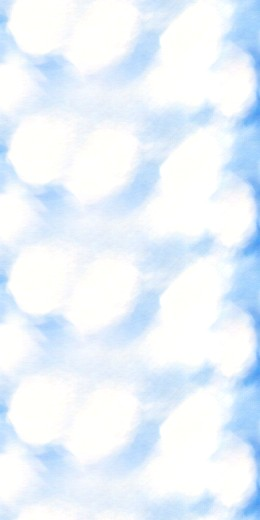
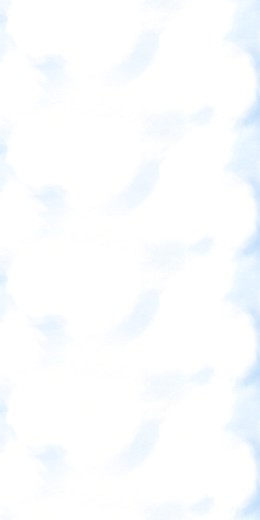
mole v835: 얼굴합성 촬영 시 다음 단계 안 넘어가던 문제(인식 요청 직렬화 + 촬영본 인식 실패 시 직전 확인 얼굴로 진행), 리듬팡 부메랑 잔상 제거·바람줄 희미하게, 눈덩이 전체 흰색
Claude-Session: https://claude.ai/code/session_01J1KxSabD5npHbmYBZZgZCb

diff --git a/mole/js/face-studio.js b/mole/js/face-studio.js
@@ -222,6 +222,12 @@
       if (tilt > 0.3) return 'tilt';
       return 'ok';
     }
+    function scaleDet(d, k) {
+      function sp(p) { return p ? { x: p.x * k, y: p.y * k } : p; }
+      var o = { ok: true, count: d.count, oval: d.oval.map(sp), box: d.box && { x: d.box.x * k, y: d.box.y * k, w: d.box.w * k, h: d.box.h * k } };
+      ['eyeL', 'eyeR', 'cheekL', 'cheekR', 'chin', 'nose', 'skinL', 'skinR'].forEach(function (n) { o[n] = sp(d[n]); });
+      return o;
+    }
     var bgTimer = null;
     function paintBg() {
       clearTimeout(bgTimer);
@@ -237,6 +243,7 @@
       MG.FaceDetect.detect(video).then(function (det) {
         if (st.screen !== 2) return;
         var j = judge(det, video.videoWidth);
+        st.lastDet = j === 'ok' ? { det: det, w: video.videoWidth } : null; // v835: 버튼이 켜질 때 확인된 얼굴(촬영 인식 실패 시 대신 사용)
         setCamState(j === 'ok' ? 'ready' : 'idle', j === 'ok' ? T('mole.fs.camHint') : T('mole.fs.cam.' + j));
         st.loop = setTimeout(detectLoop, 300);
       });
@@ -249,8 +256,10 @@
       var c = document.createElement('canvas'); c.width = Math.round(video.videoWidth * k); c.height = Math.round(video.videoHeight * k);
       c.getContext('2d').drawImage(video, 0, 0, c.width, c.height);
       el.classList.remove('is-snap'); void el.offsetWidth; el.classList.add('is-snap');
+      var ready = st.lastDet;
       MG.FaceDetect.detect(c).then(function (det) {
         st.busy = false;
+        if ((!det || !det.ok) && ready) det = scaleDet(ready.det, c.width / ready.w); // v835: 촬영본 인식 실패 → 직전 확인된 얼굴 위치로 진행
         if (!det || !det.ok) { setCamState('idle', T('mole.fs.cam.none')); toast(T('mole.fs.retake')); return; }
         // v811(사용자 지정: 촬영해도 다음으로 안 넘어감) — 버튼이 켜졌을 때 이미 판정 통과, 촬영본은 얼굴만 있으면 진행
         var fd = fixDet(det, c.width, c.height);

diff --git a/mole/js/rhythm.js b/mole/js/rhythm.js
@@ -256,7 +256,7 @@
           }
           n.el.style.width = (L.weaponR * 2.4) + 'px'; n.el.style.opacity = '0'; n.el.decoding = 'sync';
           // 눈덩이·하트 화살 = 날아오는 잔상 2겹(사용자 지정 v816)
-          { // 4종 모두 잔상 — 원반·부메랑도(사용자 지정 v830)
+          if (n.weaponType !== 'boomerang') { // 잔상: 부메랑은 제외(사용자 지정 v835 — 바람 3줄만)
             n.trail = [0.32, 0.15].map(function (op) { var g = n.el.cloneNode(true); g.className = n.el.className + ' rp-trail'; g.dataset.op = op; wlayer.appendChild(g); return g; });
           }
           // 부메랑·원반 = 내려올 때 뒤로 바람 줄기(사용자 지정 v830)
@@ -400,7 +400,7 @@
             if (t < n.spawnTime) n.wind.style.opacity = '0';
             else { var pv = flyAt(n, t - 0.03), ang = Math.atan2(-(cur.x - pv.x), cur.y - pv.y) * 180 / Math.PI;
               n.wind.style.transform = 'translate(' + (cur.x - L.weaponR * 1.3) + 'px,' + (cur.y - L.weaponR * 4.4) + 'px) rotate(' + ang.toFixed(1) + 'deg)';
-              n.wind.style.opacity = (0.45 + 0.08 * Math.sin(t * 38)).toFixed(2); } // v832: 반투명(사용자 지정)
+              n.wind.style.opacity = ((n.weaponType === 'boomerang' ? 0.32 : 0.45) + 0.06 * Math.sin(t * 38)).toFixed(2); } // v832: 반투명(사용자 지정)
           }
           if (t < n.spawnTime) { n.cx = cur.x; n.cy = -9999; return; } // 던져 올라오는 구간(판정 없음)
           var p = cur; n.cx = p.x; n.cy = p.y;

diff --git a/mole/index.html b/mole/index.html
@@ -826,7 +826,7 @@
       <div id="lane-button-bar">
         <!-- 배포 버전 표식(스크린샷으로 어느 버전인지 확인용) — 화면 좌하단에 두면 다른 UI에
              가려 잘 안 보인다는 사용자 지적으로, 하트 아이콘(다이얼패드 1번 칸) 바로 위로 이동. -->
-        <div id="build-tag" aria-hidden="true">v834</div>
+        <div id="build-tag" aria-hidden="true">v835</div>
         <!-- 피버타임(터치캐치 보너스타임) 전광판 — 버튼보드 자리를 통째로 덮는 오버레이,
              평소엔 hidden, 피버 중에만 콤보/잔여시간 표시(사용자 지정: "전광판처럼"). -->
         <div id="fever-scoreboard" class="fever-scoreboard" hidden>
@@ -1060,7 +1060,7 @@ window.FGH.rollOut = function (el, done) {
       } else {
         // ?v= 로 매 배포마다 URL을 바꿔서 GitHub Pages의 sw.js 캐시(max-age=600)를 무조건 우회 —
         // 안 그러면 배포 직후에도 최대 10분간 옛 서비스워커가 안 갈리는 경우가 있었음(사용자 보고).
-        navigator.serviceWorker.register('sw.js?v=834').catch(function () {});
+        navigator.serviceWorker.register('sw.js?v=835').catch(function () {});
       }
     });
   }

diff --git a/mole/style.css b/mole/style.css
@@ -5409,3 +5409,6 @@ img[src$="assets/score/btn-back.png"] { filter: hue-rotate(170deg) saturate(1.35
 .rp-snow-roll img { opacity: 1; }
 .rp-snow-shade { left: 7%; top: 8.3%; width: 86%; background: radial-gradient(circle at 34% 28%, rgba(255,255,255,0.5), rgba(255,255,255,0) 34%), radial-gradient(circle, rgba(120,170,230,0) 45%, rgba(95,150,220,0.35) 72%, rgba(95,150,220,0) 73%); }
 .rp-snow-shade { background: radial-gradient(circle at 34% 28%, rgba(255,255,255,0.35), rgba(255,255,255,0) 30%), radial-gradient(circle, rgba(120,170,230,0) 40%, rgba(90,140,215,0.45) 70%, rgba(95,150,220,0) 72%); }
+/* v835: 눈덩이 전체 흰색(사용자 지정) — 파란 테두리 음영 빼고 흰 무늬가 공 대부분을 덮게 */
+.rp-snow-roll { -webkit-mask-image: radial-gradient(circle, #000 62%, transparent 76%); mask-image: radial-gradient(circle, #000 62%, transparent 76%); }
+.rp-snow-shade { background: radial-gradient(circle at 34% 28%, rgba(255,255,255,0.4), rgba(255,255,255,0) 32%); }

diff --git a/mole/js/face-detect.js b/mole/js/face-detect.js
@@ -46,7 +46,15 @@
     return meshP;
   }
 
+  // v835: 인식 요청을 한 줄로 세움 — FaceMesh 는 한 번에 하나만 처리. 실시간 인식 중에 촬영 인식이 겹치면
+  // 촬영 쪽이 실패로 끝나 "다시 촬영해 주세요"만 반복되던 고질 버그(폰에서 거의 매번)
+  var chain = Promise.resolve();
   function detect(src) {
+    var p = chain.then(function () { return detectNow(src); });
+    chain = p.catch(function () {});
+    return p;
+  }
+  function detectNow(src) {
     var w = src.naturalWidth || src.videoWidth || src.width;
     var h = src.naturalHeight || src.videoHeight || src.height;
     return getMesh().then(function (mesh) {

diff --git a/mole/sw.js b/mole/sw.js
@@ -3,7 +3,7 @@
 // 폴백 전용으로만 갱신한다. (예전엔 stale-while-revalidate라 배포해도 "다음 실행"에야
 // 반영돼 사용자 체감 대기가 길었음 — 온라인=항상 최신, 오프라인=마지막 캐시로 변경.)
 // SHELL 목록 자체가 바뀔 때만 CACHE 를 올린다.
-const CACHE = 'mole-game-v834';
+const CACHE = 'mole-game-v835';
 
 // 화면별 BGM(audio/bgm-*.mp3)은 v275 부터 SHELL 에 포함 — 기본 켜짐(v272)이라 항상 필요하고,
 // 캐시가 안 돼 있으면 오프라인/느린망에서 재생 실패했음.
